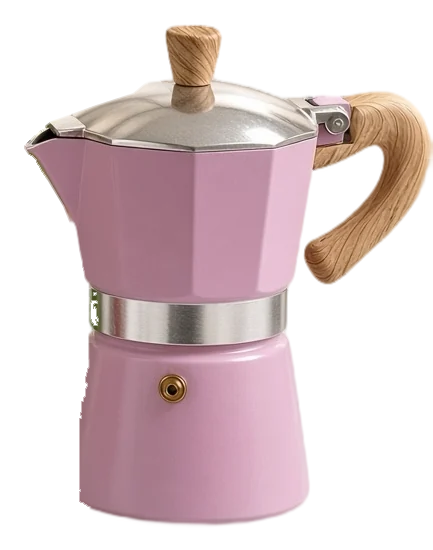
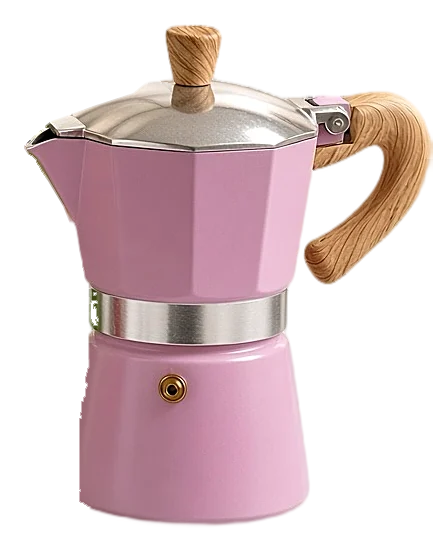
Portada: greca e hilo con forma de cilindro, sin deformarse al girar
El relieve de «almohada» inflaba la greca y el ovillo desde todo el borde y
la foto se torcía al mecerse. Ahora cada fila se curva como un tubo, con el
radio real del objeto (frente y espalda completos), así la etiqueta Maxi y
las caras de la greca giran como en el objeto de verdad; el asa de la greca
va aparte como un tubo fino. El ovillo tenía el borde derecho cortado en
recto: se arma reflejando el izquierdo (es simétrico). Las dos fotos, que
son recortes chicos, llevan un poco más de nitidez y color, y menos
inclinación.

diff --git a/js/tienda3d.js b/js/tienda3d.js
@@ -1053,13 +1053,14 @@ const rebote = (x) => {
 // Fotos de productos de @mercerialareina2 sin fondo (img/portada/<id>.webp) con su mapa de relieve
 // (<id>-relieve.png): cada foto se levanta en 3D como una pieza con volumen que flota y se mece.
 // «ver» dice qué abre al tocarla: el showroom (tres) o la vista de cerca de la vitrina (vitrina).
+// «grosor» es el volumen hacia adelante (fracción del alto); en la greca y el hilo es su radio real (cilindro).
 
 const PIEZAS_PORTADA = [
   { id: "chicle", nombre: "collar chicle con dije de corazón", pos: [0.05, -0.12, 0.5], alto: 2.54, grosor: 0.26, brillo: 0.22, rot: 0,
     ver: { tres: "chicle", opciones: { color: "vino", dije: "corazon" } } },
-  { id: "hilo", nombre: "hilo Madame Tricote Maxi", pos: [-1.62, 1.2, 0.1], alto: 1.35, grosor: 0.4, brillo: 0.04, rot: -0.12,
+  { id: "hilo", nombre: "hilo Madame Tricote Maxi", pos: [-1.62, 1.2, 0.1], alto: 1.35, grosor: 0.418, espalda: 1, brillo: 0.04, rot: -0.04,
     ver: { vitrina: "Hilo Madame Tricote Maxi" } },
-  { id: "greca", nombre: "greca rosada", pos: [1.58, 1.24, -0.1], alto: 1.62, grosor: 0.26, brillo: 0.32, rot: 0.1,
+  { id: "greca", nombre: "greca rosada", pos: [1.58, 1.24, -0.1], alto: 1.62, grosor: 0.258, espalda: 1, brillo: 0.32, rot: 0.03,
     ver: { tres: "greca", opciones: { color: "rosado" } } },
   { id: "trebol", nombre: "set de trébol en su tarjeta", pos: [-1.82, -0.36, -0.3], alto: 1.73, grosor: 0.025, brillo: 0.14, rot: -0.14,
     ver: { tres: "trebol-video", opciones: { color: "verde", mat: "acero" } } },
@@ -1195,8 +1196,8 @@ async function iniciarPortada(host, alElegir) {
     });
     const pieza = new THREE.Group();
     const segs = d.grosor > 0.1 ? 110 : 60;
-    // frente con su volumen y espalda un poco más plana: juntas forman una pieza cerrada
-    for (const lado of [1, -0.8]) {
+    // frente con su volumen y espalda (más plana, o igual en las piezas cilíndricas): juntas forman una pieza cerrada
+    for (const lado of [1, -(d.espalda || 0.8)]) {
       const malla = new THREE.Mesh(geometriaConRelieve(ancho, d.alto, relieve, prof * lado, segs), material);
       malla.userData.pieza = pieza;
       pieza.add(malla);

diff --git a/README.md b/README.md
@@ -46,6 +46,8 @@ En la portada flotan siete productos de la tienda sacados de sus fotos de Instag
 que había (hasta 1200×1600): hilo Madame Tricote Maxi, greca rosada, collar chicle en su busto, set de trébol en
 su tarjeta, maxi dijes de corazón, cordón de yute y abanico. A cada foto se le quitó el fondo y se le hizo un
 mapa de relieve, con el que el navegador la levanta en 3D (la pieza tiene volumen, se mece y le da la luz).
+La greca y el hilo usan relieve de cilindro (cada fila se curva como un tubo, como el objeto real), así no se
+deforman al girar.
 
 - `img/portada/<id>.webp`: la foto sin fondo (720 px de lado mayor).
 - `img/portada/<id>-relieve.png`: el relieve (blanco = lo más alto).
